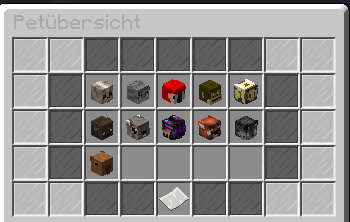
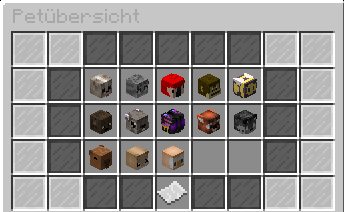
Update pet documentation: add new pets and enhance existing descriptions and updated petmenü picture

diff --git a/docs/pages/pets/allgemein.md b/docs/pages/pets/allgemein.md
@@ -12,7 +12,9 @@ Manche Pets teilen sich einen Skill.  <img align="right" width="300" height="200
 - [Affe](affe.md) ([Handwerk-Skill](../../pages/skills/handwerk.md))
 - [Biene](biene.md) ([Handwerk-Skill](../../pages/skills/handwerk.md))
 - [Capybara](capybara.md) ([Fischer-Skill](../../pages/skills/fischer.md))
+- [Eule](eule.md) ([Gärtner-Skill](../../pages/skills/gärtner.md))
 - [Fledermaus](fledermaus.md) ([Bergbau-Skill](../../pages/skills/bergbau.md))
+- [Hamster](hamster.md) ([Gärtner-Skill](../../pages/skills/combat.md))
 - [Hase](hase.md) ([Gärtner-Skill](../../pages/skills/gärtner.md))
 - [Hund](hund.md) ([Combat-Skill](../../pages/skills/combat.md))
 - [Katze](katze.md) ([Social-Skill](../../pages/skills/social.md))
@@ -36,4 +38,4 @@ Diesen Vorgang kannst du mehrfach wiederholen, bis du ein ultralegendäres Pet h
 
 ## Eier
 
-Von Gewöhnlich bis Legendär hast du die Möglichkeit, durch Jobrotationen oder die Kiste des Capybaras Pet-Eier zu erhalten. Öffnest du diese, hast du die Chance, eines von fünf Pets zu erhalten ([Papagei](papagei.md), [Katze](katze.md), [Hase](hase.md), [Hund](hund.md) oder [Capybara](capybara.md)).
+Von Gewöhnlich bis Legendär hast du die Möglichkeit, durch Jobrotationen oder die Kiste des Capybaras Pet-Eier zu erhalten. Öffnest du diese, hast du die Chance, eines von fünf Pets zu erhalten ([Papagei](papagei.md), [Katze](katze.md), [Hase](hase.md), [Hund](hund.md), [Hamster](hamster.md) oder [Capybara](capybara.md)).

diff --git a/docs/pages/pets/hase.md b/docs/pages/pets/hase.md
@@ -2,7 +2,7 @@
 
 <img align="right" width="70" eight="75" src="../../../assets/image/pets/Hase.png">
 
-Hasen bewohnen eine Vielzahl von Lebensräumen, von der Tundra über Grasländer bis zu tropischen Wäldern. Die meisten Hasen suchen Schutz unter Sträuchern und Felsen. Hier verhilft er den Spielern zu mehr [Gärtner-XP](../../pages/skills/gärtner.md) und doppelten Drop von [Heilkraut](../../pages/bmt/heilkraut.md). Den Hasen kann man in der [Schwarzmarktauktion](../../pages/orte/schwarzmarkt.md) erwerben.
+Hasen bewohnen eine Vielzahl von Lebensräumen, von der Tundra über Grasländer bis zu tropischen Wäldern. Die meisten Hasen suchen Schutz unter Sträuchern und Felsen. Hier verhilft er den Spielern zu mehr [Gärtner-XP](../../pages/skills/gärtner.md) und doppelten Drop von [Heilkraut](../../pages/bmt/heilkraut.md). Den Hasen kann man in der [Schwarzmarktauktion](../../pages/orte/schwarzmarkt.md) und aus einem Mysteriösen Ei erwerben.
 
 ## Die verschiedenen Stufen des Hasens
 
